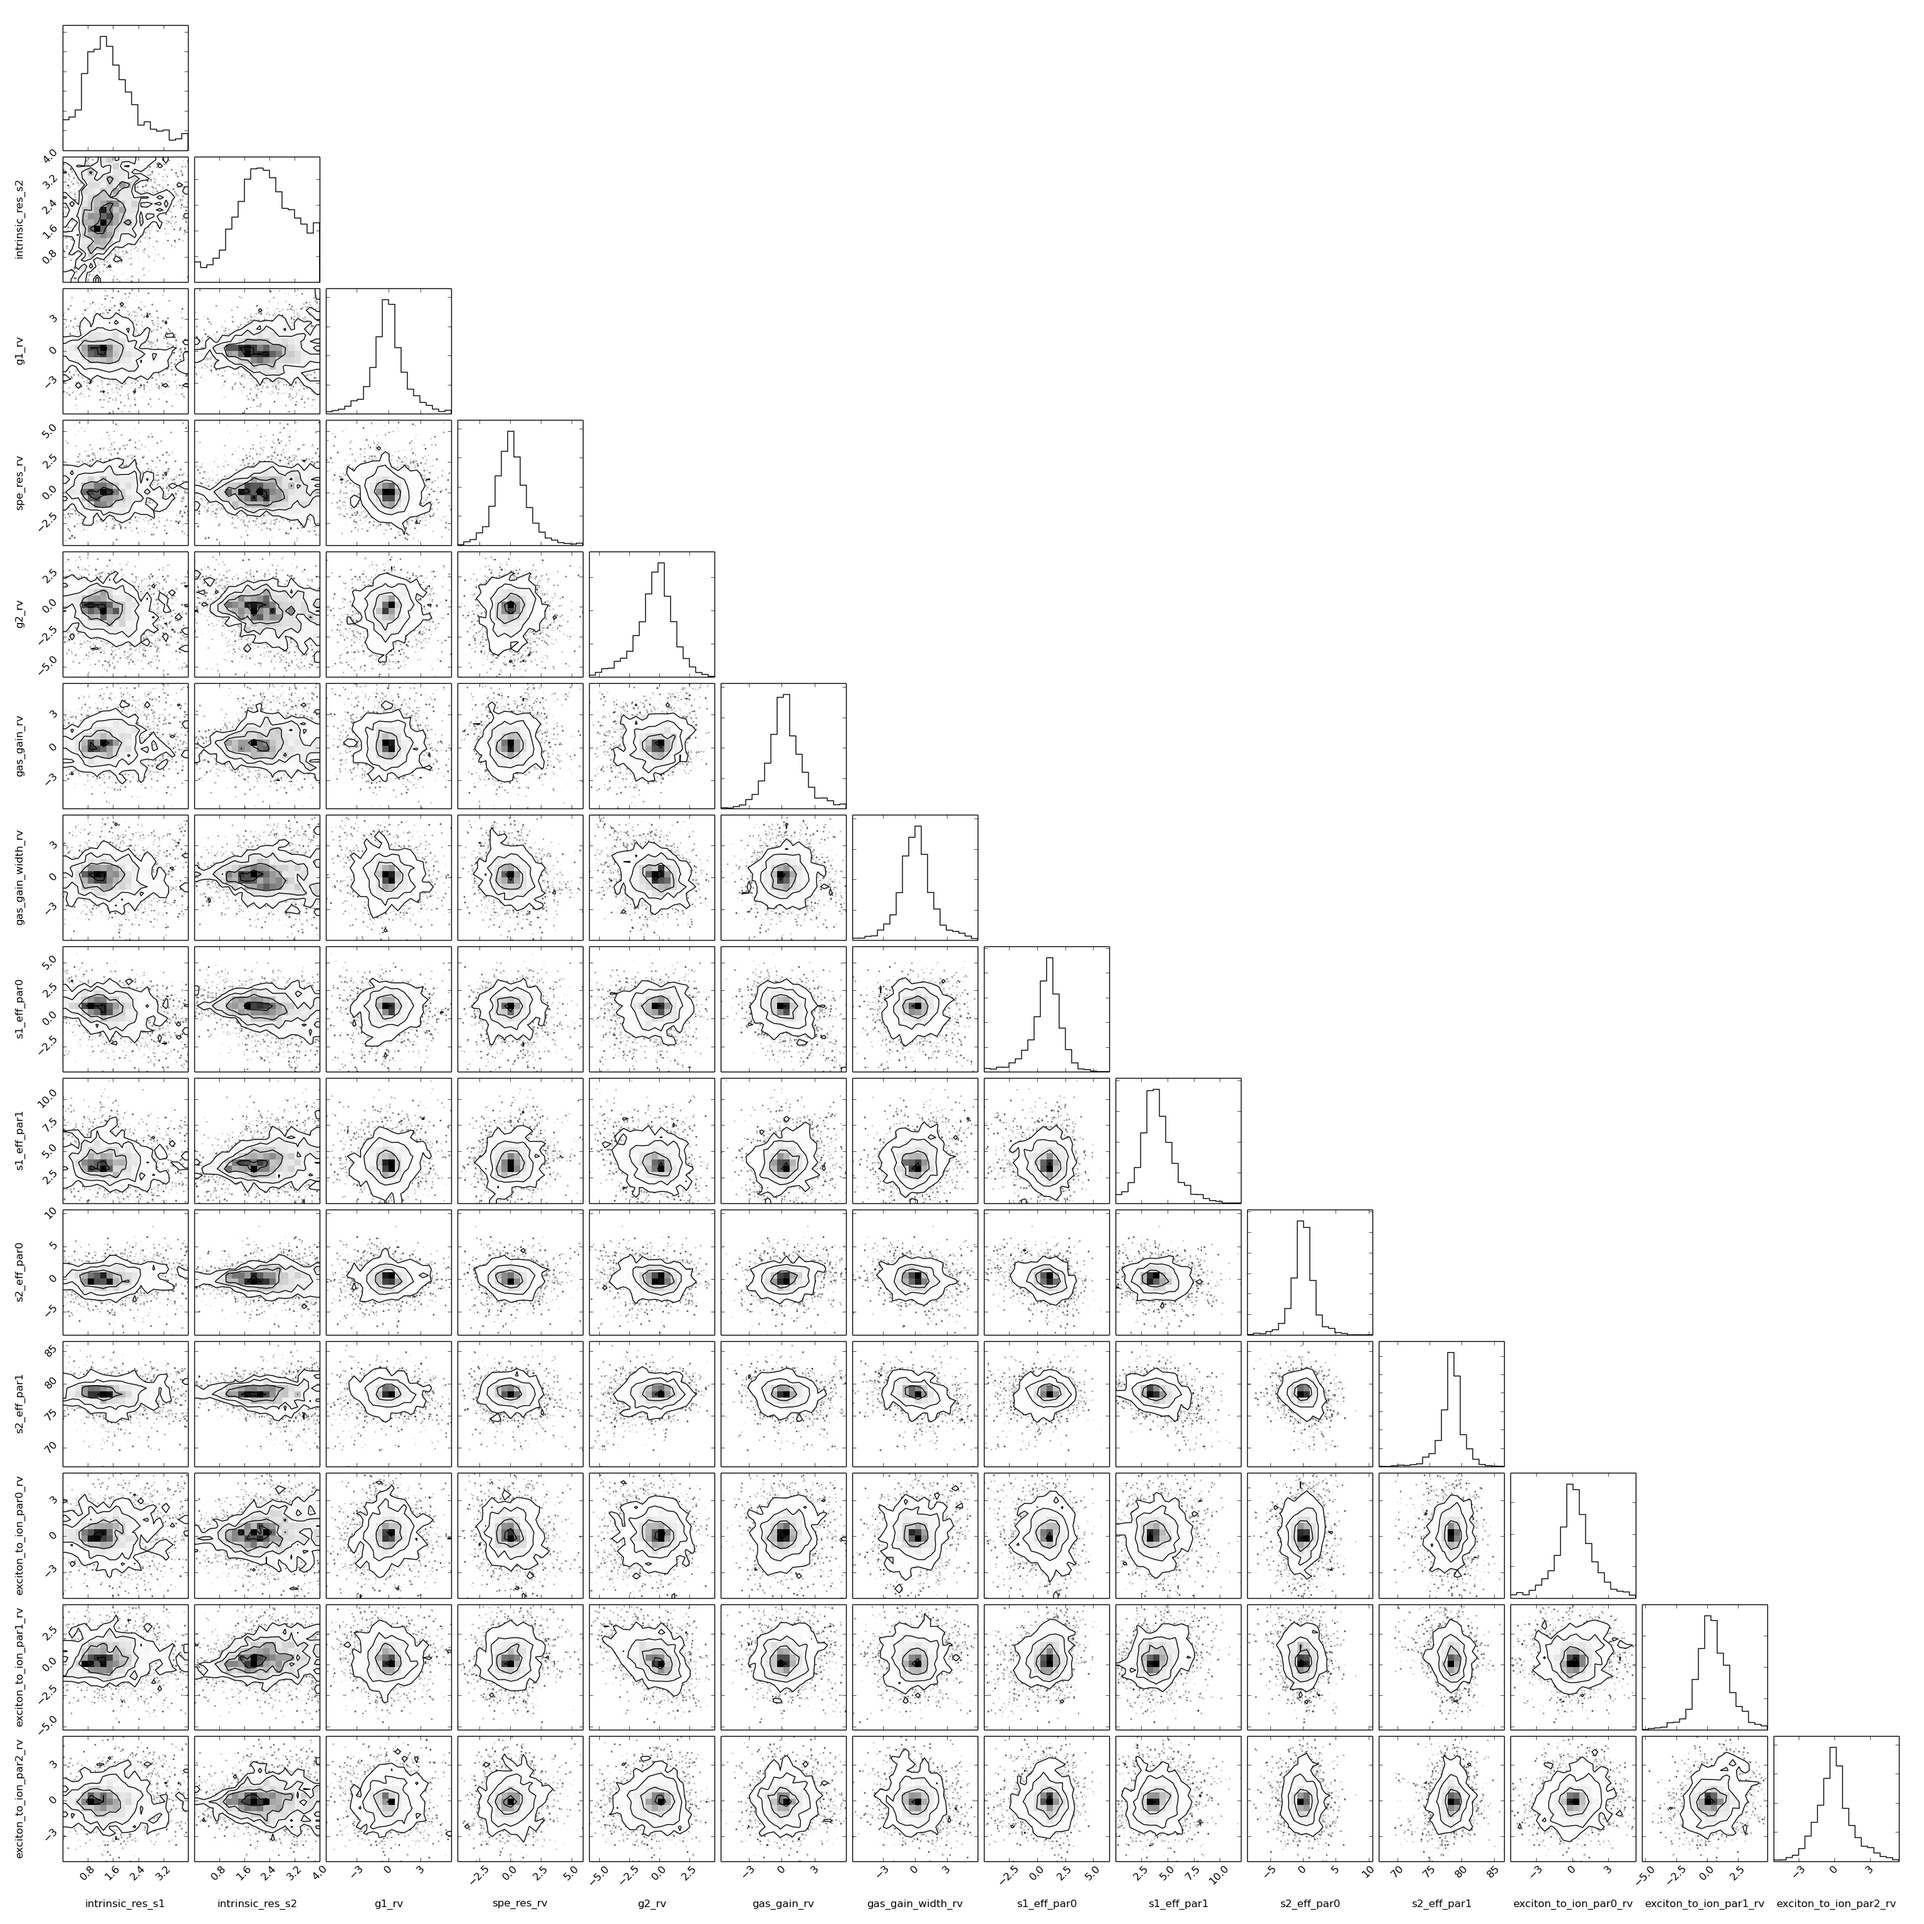
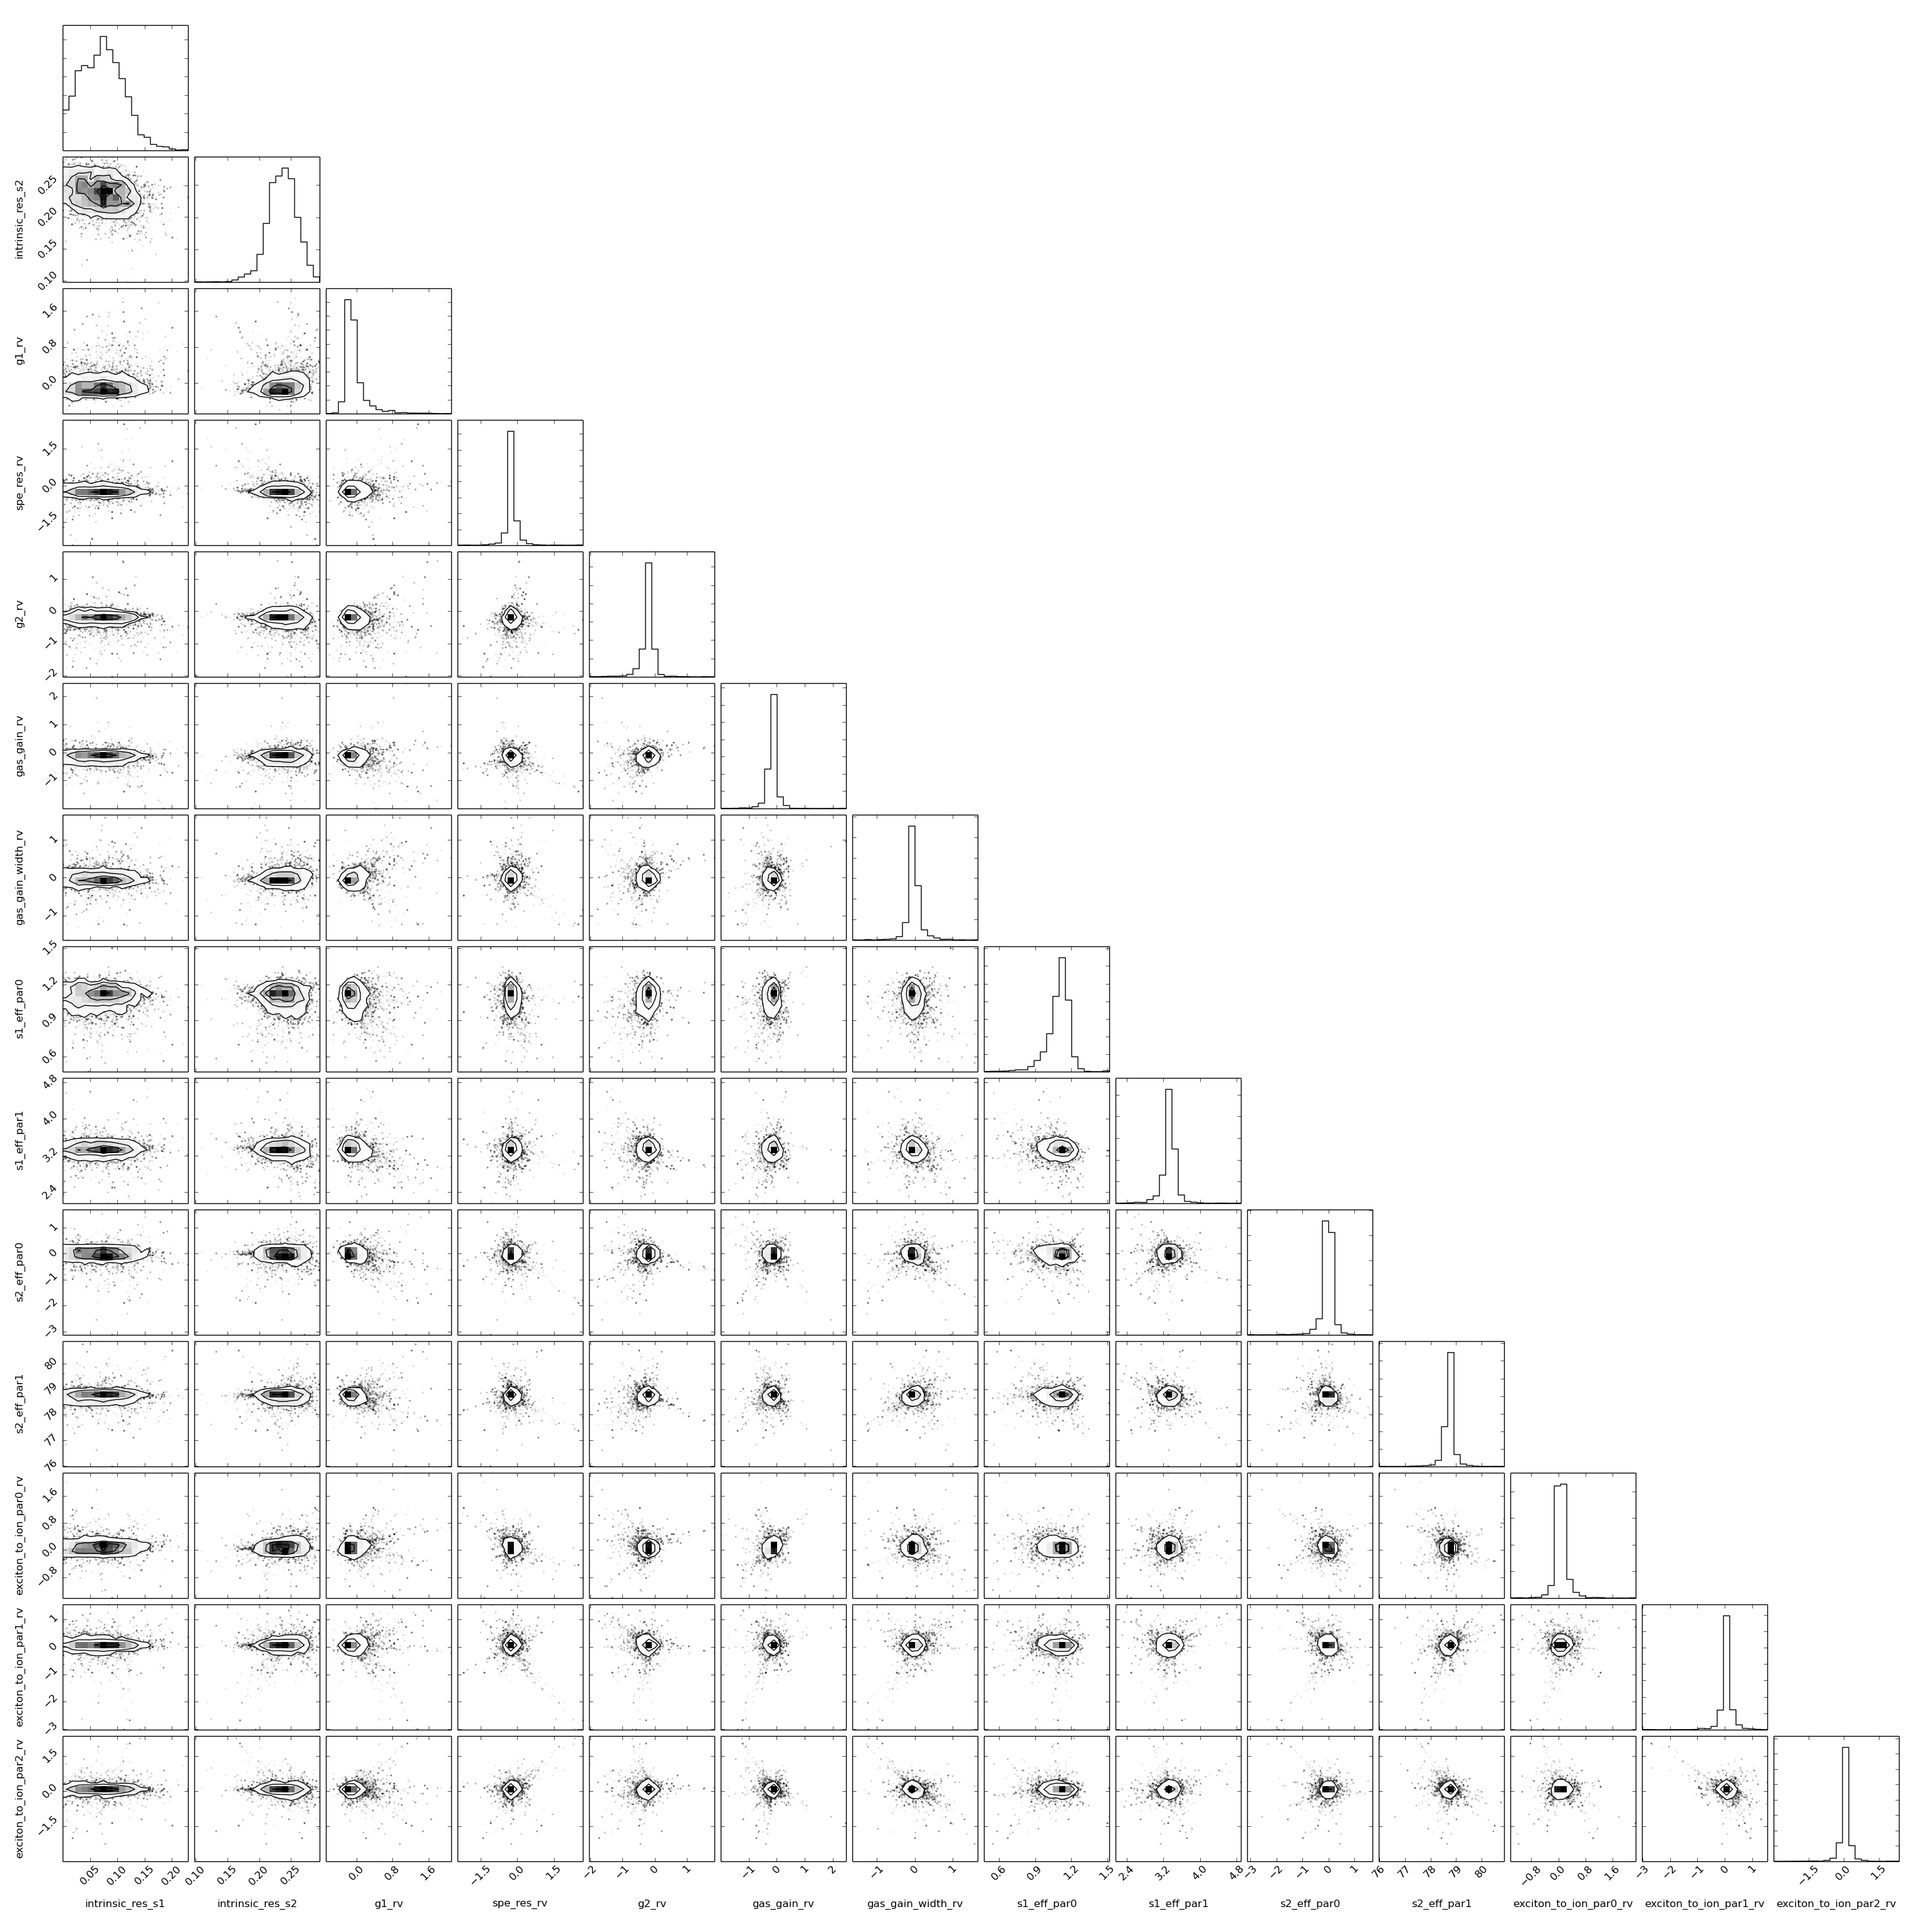
Removed hold on nuissance parameters and improved estimates on free parameters

diff --git a/nr/nr_band_matching/fit_nr_band.py b/nr/nr_band_matching/fit_nr_band.py
@@ -17,6 +17,7 @@ from pprint import pprint
 from produce_nest_yields import nest_nr_mean_yields
 import gc, nr_band_config
 
+
 import matplotlib.pyplot as plt
 import matplotlib.mlab as mlab
 import rootpy.compiled as C
@@ -139,7 +140,7 @@ def smart_binomial(numberOfSucceses, numberOfTrials, probabiltyOfSuccess):
 
 
 class nr_band_fitter(object):
-	def __init__(self, l_files, anodeVoltage, cathodeVoltage, degree_setting=-4, num_mc_events=1000000, name_notes=None, yields_free=False):
+	def __init__(self, l_files, anodeVoltage, cathodeVoltage, degree_setting=-4, num_mc_events=5000000, name_notes=None, yields_free=False):
 
 		# make class methods pickleable for multithreading process
 		copy_reg.pickle(types.MethodType, reduce_method)
@@ -510,7 +511,7 @@ class nr_band_fitter(object):
 
 	def get_log_likelihood_s1_eff(self, l_s1_eff_pars):
 		# first par is center, second is shape
-		if -5 < l_s1_eff_pars[0] < 15 and 1e-3 < l_s1_eff_pars[1] < 30:
+		if 0 < l_s1_eff_pars[0] < 4 and 0.5 < l_s1_eff_pars[1] < 6:
 			return 0.
 		else:
 			return -np.inf
@@ -527,7 +528,7 @@ class nr_band_fitter(object):
 
 
 	def get_prior_log_likelihood_resolution(self, intrinsicResolution):
-		if intrinsicResolution < 0 or intrinsicResolution > 4:
+		if intrinsicResolution < 0 or intrinsicResolution > 0.5:
 			return -np.inf
 		else:
 			return 0
@@ -603,7 +604,7 @@ class nr_band_fitter(object):
 		# -----------------------------------------------
 
 		# hard-code nuissance parameters
-		g1_rv, spe_res_rv, g2_rv, gas_gain_rv, gas_gain_width_rv, exciton_to_ion_par0_rv, exciton_to_ion_par1_rv, exciton_to_ion_par2_rv = 0, 0, 0, 0, 0, 0, 0, 0
+		#g1_rv, spe_res_rv, g2_rv, gas_gain_rv, gas_gain_width_rv, exciton_to_ion_par0_rv, exciton_to_ion_par1_rv, exciton_to_ion_par2_rv = 0, 0, 0, 0, 0, 0, 0, 0
 
 
 		aS1 = np.full(self.num_mc_events, -1, dtype=np.float32)
@@ -761,7 +762,7 @@ class nr_band_fitter(object):
 		num_dim = 14
 	
 		# don't give zeros as starting values otherwise will be stuck
-		starting_values = [0.1, 0.18, (np.random.rand() - 0.5)/2., (np.random.rand() - 0.5)/2., (np.random.rand() - 0.5)/2., (np.random.rand() - 0.5)/2., (np.random.rand() - 0.5)/2., 1.1, 3.2, 0, 75, (np.random.rand() - 0.5)/2., (np.random.rand() - 0.5)/2., (np.random.rand() - 0.5)/2.]
+		starting_values = [0.08, 0.24, (np.random.rand() - 0.5)/2., (np.random.rand() - 0.5)/2., (np.random.rand() - 0.5)/2., (np.random.rand() - 0.5)/2., (np.random.rand() - 0.5)/2., 1.0, 3.2, 0, 78, (np.random.rand() - 0.5)/2., (np.random.rand() - 0.5)/2., (np.random.rand() - 0.5)/2.]
 	
 		# before emcee, setup save locations
 		dir_specifier_name = '%.3fkV_%.1fkV' % (self.cathode_setting, self.anode_setting)
@@ -865,9 +866,25 @@ class nr_band_fitter(object):
 			print '\n\nWARNING: Not enough sample points to estimate the autocorrelation time - this likely means that the fit is bad since the burn-in time was not reached.\n\n'
 
 
+
+	def minimize_nll_free_pars(self, a_guesses):
+		def neg_log_likelihood(a_guesses):
+			return -self.wrapper_nr_band_nest([a_guesses[0], a_guesses[1], 0, 0, 0, 0, 0, a_guesses[2], a_guesses[3], a_guesses[4], a_guesses[5], 0, 0, 0])
+		result = optimize.minimize(neg_log_likelihood, a_guesses, method='Nelder-Mead')
+		print result
+
+
+
+
 if __name__ == '__main__':
 	test = nr_band_fitter('nerix_160419_1331', 4.5, 0.345)
-	#test.likelihood_nr_band_nest(intrinsic_res_s1=0.1, intrinsic_res_s2=0.18, g1_rv=0, spe_res_rv=0, g2_rv=0, gas_gain_rv=0, gas_gain_width_rv=0, s1_eff_par0=1.1, s1_eff_par1=3.2, s2_eff_par0=0, s2_eff_par1=75, exciton_to_ion_par0_rv=0, exciton_to_ion_par1_rv=0, exciton_to_ion_par2_rv=0, draw_fit=True)
-	test.likelihood_nr_band_nest(intrinsic_res_s1=0.9, intrinsic_res_s2=2.0, g1_rv=0, spe_res_rv=0, g2_rv=0, gas_gain_rv=0, gas_gain_width_rv=0, s1_eff_par0=1.1, s1_eff_par1=3.2, s2_eff_par0=0, s2_eff_par1=75, exciton_to_ion_par0_rv=0, exciton_to_ion_par1_rv=0, exciton_to_ion_par2_rv=0, draw_fit=True)
+
+	#a_free_par_guesses = [0.05, 0.25, 1.1, 3.2, 0, 75]
+	#test.minimize_nll_free_pars(a_free_par_guesses)
+
+	test.likelihood_nr_band_nest(intrinsic_res_s1=0.05, intrinsic_res_s2=0.25, g1_rv=0, spe_res_rv=0, g2_rv=0, gas_gain_rv=0, gas_gain_width_rv=0, s1_eff_par0=1.1, s1_eff_par1=3.2, s2_eff_par0=0, s2_eff_par1=75, exciton_to_ion_par0_rv=0, exciton_to_ion_par1_rv=0, exciton_to_ion_par2_rv=0, draw_fit=True)
+	test.likelihood_nr_band_nest(intrinsic_res_s1=0.05, intrinsic_res_s2=0.25, g1_rv=0, spe_res_rv=0, g2_rv=0, gas_gain_rv=0, gas_gain_width_rv=0, s1_eff_par0=1.1, s1_eff_par1=3.2, s2_eff_par0=0, s2_eff_par1=75, exciton_to_ion_par0_rv=0, exciton_to_ion_par1_rv=0, exciton_to_ion_par2_rv=0, draw_fit=True)
+	test.likelihood_nr_band_nest(intrinsic_res_s1=0.05, intrinsic_res_s2=0.25, g1_rv=0, spe_res_rv=0, g2_rv=0, gas_gain_rv=0, gas_gain_width_rv=0, s1_eff_par0=1.1, s1_eff_par1=3.2, s2_eff_par0=0, s2_eff_par1=75, exciton_to_ion_par0_rv=0, exciton_to_ion_par1_rv=0, exciton_to_ion_par2_rv=0, draw_fit=True)
+	#test.likelihood_nr_band_nest(intrinsic_res_s1=0.9, intrinsic_res_s2=2.0, g1_rv=0, spe_res_rv=0, g2_rv=0, gas_gain_rv=0, gas_gain_width_rv=0, s1_eff_par0=1.1, s1_eff_par1=3.2, s2_eff_par0=0, s2_eff_par1=75, exciton_to_ion_par0_rv=0, exciton_to_ion_par1_rv=0, exciton_to_ion_par2_rv=0, draw_fit=True)
 	#test.fit_nr_band_nest(num_steps=20, num_walkers=100, num_threads=6)
 
